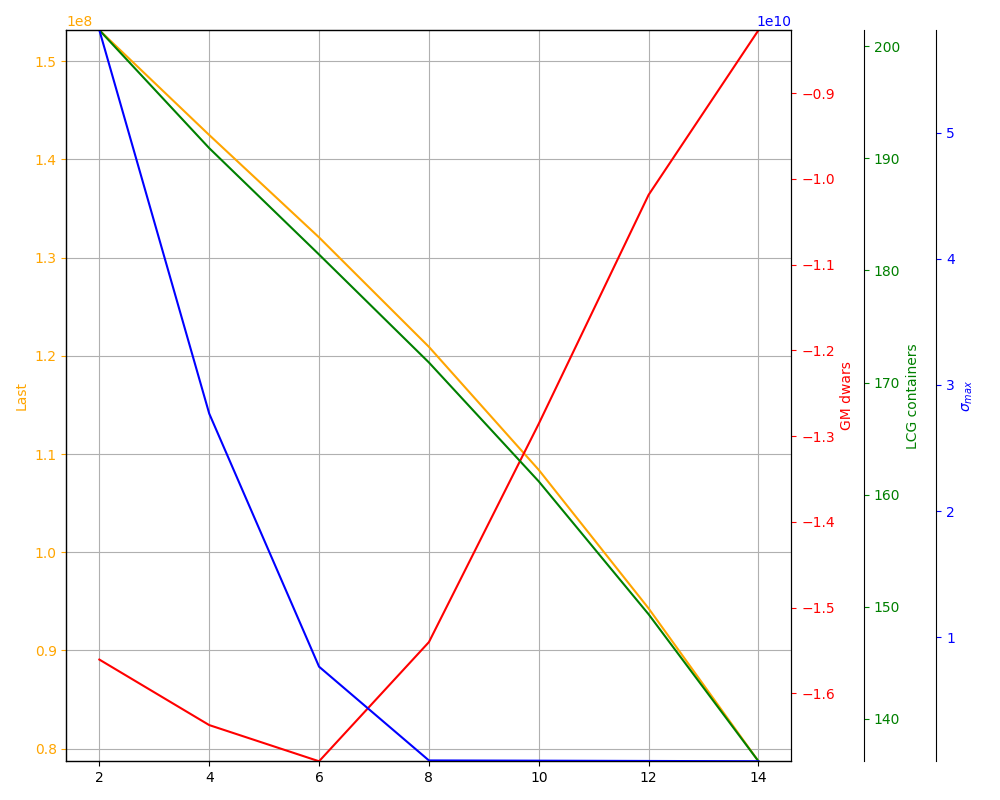
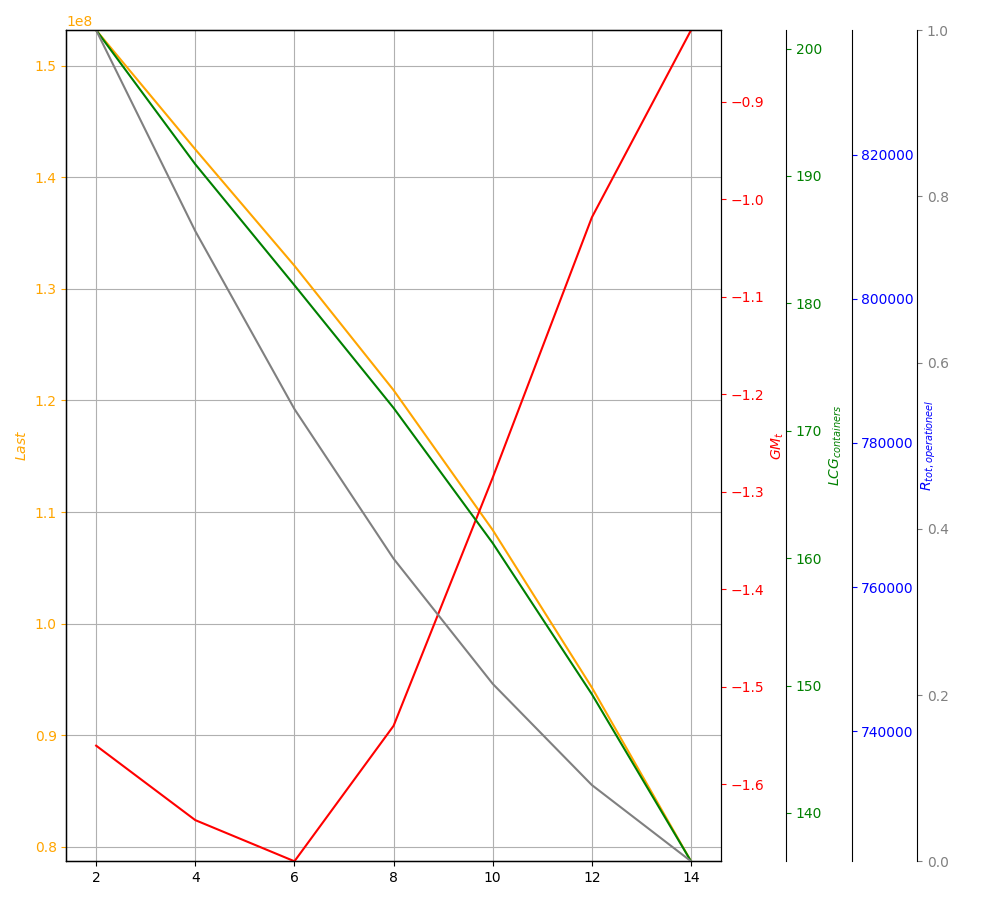
biem

diff --git a/Trendlijnen.py b/Trendlijnen.py
@@ -275,143 +275,11 @@ def beladen(df):
     #Msl=rho_water*g*displacement*GM_l*theta
     BB1=It_y/displacement*np.tan(theta)
 
-    return [F_last,GM_t,arm_c,max(sigma)]
+    return [F_last,GM_t,arm_c,max(sigma),df.iloc[150,3]]
     
-def varend(df_varend):   
-    rho_staal = 7.85E3
-    E_staal=210E9
-    rho_water = 1.025E3
-    g = 9.81
-    nul = np.zeros(1)
-    Loa= df_varend.iloc[0,1] +df_varend.iloc[67,0]
-    eind = np.array([Loa])
-    onderwater= df_varend.iloc[42:64,0]
-    COB=df_varend.iloc[20,1]
-    COV=df_varend.iloc[21,1]
-    x=np.arange(0,Loa,0.05)
-
-
-    #containers
-    Cl=6.06   #container lengte
-    Cb=2.44  #container breedte
-    Ch=2.59   #container hoogte
-    Cw=30E3  #container weight
-
-    #aantal containers
-    n=234
-    #aantal rijen in de hoogte
-    atiers=1
-    #aantal containers in breedte
-    arij=13
-    #aantal containers in lengte
-    abay= n/arij
-
-
-    #opwaartsekracht verdeelde belasting
-    p=np.zeros(len(x))
-
-    p = -df_varend.iloc[42:64,1]*rho_water*g
-    p = np.append(p,nul)
-    p = np.append(nul,p)
-    x_p = df_varend.iloc[42:64,0]
-    x_p = np.append(0,x_p)
-    x_p = np.append(x_p,max(onderwater))
-    p_func = interpolate.interp1d(x_p,p)
-
-    #gewicht verdeelde belasting
-    G = df_varend.iloc[101:123,2]*rho_staal*g*tp_factor
-    #G=np.append(G,nul)
-    x_G = df_varend.iloc[101:123,0]
-    #x_G=np.append(x_G,eind)
-    G_func = interpolate.interp1d(x_G,G)
-
-    #traagheidsmoment over de lengte
-    I = df_varend.iloc[101:123,6]*tp_factor
-    #I=np.append(I,nul)
-    x_I = df_varend.iloc[101:123,0]
-    #x_I=np.append(x_I,eind)
-    I_func = interpolate.interp1d(x_I,I)
-
-
-    G = G_func(x)
-    I= I_func(x)
-    p= np.zeros(len(x))
-    # for loop zodat nadat het onderwater stopt p altijd 0
-    for i in range(len(x)):
-        if x[i] < min(onderwater):
-            p[i] = 0
-        elif x[i] > max(onderwater):
-            p[i]=0
-        else:
-            p[i]=p_func(x[i])
-
-    G_punt=integrate.simpson(G_func,x)
-    P_punt=integrate.simpson(p_func,x)
-
-
-    #som krachten 6 staat voor de 6 meter diepgang
-    Fc=Cw*n*g
-
-    Ftank = -1*(G_punt + P_punt +Fc)
-    xtank=df_varend.iloc[33,1]
-    volumetank=Ftank/rho_water/g
-
-    volumetankmax=df_varend.iloc[32,1]/df_varend.iloc[35,1]*100
-
-
-    Fillheight=volumetank/volumetankmax
-
-    #som momenten
-    LCG_c= -1*(P_punt*COB +G_punt*COV +Ftank*xtank)/Fc
-
-    displacement = df_varend.iloc[18,1]
-    gewichtschip=displacement*rho_water
-    H=df_varend.iloc[2,1]
-
-
-
-
-    #GM dwarsrichting
-    It_x = df_varend.iloc[27,1]
-    displacement = df_varend.iloc[18,1]
-
-    KB = df_varend.iloc[20,3]
-    KG = df_varend.iloc[21,3]
-
-    #berekening displacement nieuw nadat containers erop zijn
-    gewichtschip=displacement*rho_water
-    displacement1=(gewichtschip+Cw*n)/rho_water
-    BM_t = It_x/displacement1
-    KGcont_v=H+(Ch*atiers/2)
-    KGtank_v=df_varend.iloc[33,3]
-
-    KG_nieuw= (KG*G_punt/g+KGcont_v*n*Cw+KGtank_v*volumetank*rho_water)/(G_punt/g+n*Cw+volumetank*rho_water)
-
-    GM_t_v = KB + BM_t - KG_nieuw 
-
-
-
-    #LCG
-    LCF = df_varend.iloc[26,1]
-    LCGNieuw=(LCF*G_punt/g+LCG_c*n*Cw+xtank*volumetank*rho_water)/(G_punt/g+n*Cw+volumetank*rho_water)
-    #GM langsrichting
-    It_y = df_varend.iloc[27,2]
-    BM_l = It_y/displacement
-    GM_l = KB +BM_l-KG
-
-    #KG1=(KG*gewichtschip+F_tank1/g*tankx+F_cont*VCG_c/g)/(F_cont/g+gewichtschip+F_tank1)
-
-
-
-    V_s = df_varend.iloc[152:165,1]
-    R_tot = df_varend.iloc[152:165,3]
-
-    R_tot_max = df_varend.iloc[150,3]
-    return [GM_t_v, Fillheight*100]
-
 
 def trendplotinelkaar(filepath,title):
-    datalabel = [r"Last", r"GM dwars", r"LCG containers",r"$\sigma_{max}$"]
+    datalabel = [r"$Last$", r"$GM_{t}$", r"$LCG_{containers}$",r"$\sigma_{max}$",r"$R_{tot,operationeel}$"]
     wb = load_workbook(filepath, read_only=True, keep_links=False)
     variable = wb.sheetnames
     data = np.zeros(len(datalabel))
@@ -422,43 +290,48 @@ def trendplotinelkaar(filepath,title):
     data = data[1:,]
 
     variable = [float(numeric_string) for numeric_string in variable]
-    figure, ax = plt.subplots(figsize=(10,8))
+    figure, ax = plt.subplots(figsize=(10,9))
 #    figure.subplots_adjust(right=0.75)
 
 
     twin1 = ax.twinx()
     twin2 = ax.twinx()
     twin3 = ax.twinx()
+    twin4 = ax.twinx()
 
     # Offset the right spine of twin2.  The ticks and label have already been
     # placed on the right by twinx above.
     twin2.spines.right.set_position(("axes", 1.1))
     twin3.spines.right.set_position(("axes", 1.2))
+    twin4.spines.right.set_position(("axes", 1.3))
 
 
     p1, = ax.plot(variable,  data[:,0], label=datalabel[0],c="orange")
     p2, = twin1.plot(variable, data[:,1], label=datalabel[1],c="r")
     p3, = twin2.plot(variable,  data[:,2],label=datalabel[2],c="g")
     p4, = twin3.plot(variable,  data[:,3], label=datalabel[3],c="b")
+    p5, = twin3.plot(variable,  data[:,4], label=datalabel[4],c="grey")
     ax.set(ylabel=datalabel[0],ylim=(min(data[:,0]),max(data[:,0])))
     twin1.set(ylabel=datalabel[1],ylim=(min(data[:,1]),max(data[:,1])))
     twin2.set(ylabel=datalabel[2],ylim=(min(data[:,2]),max(data[:,2])))
     twin3.set(ylabel=datalabel[3],ylim=(min(data[:,3]),max(data[:,3])))
+    twin3.set(ylabel=datalabel[4],ylim=(min(data[:,4]),max(data[:,4])))
+
     ax.yaxis.label.set_color(p1.get_color())
     twin1.yaxis.label.set_color(p2.get_color())
     twin2.yaxis.label.set_color(p3.get_color())
     twin3.yaxis.label.set_color(p4.get_color())
+    twin4.yaxis.label.set_color(p5.get_color())
     ax.tick_params(axis='y', colors=p1.get_color())
     twin1.tick_params(axis='y', colors=p2.get_color())
     twin2.tick_params(axis='y', colors=p3.get_color())
     twin3.tick_params(axis='y', colors=p4.get_color())
+    twin4.tick_params(axis='y', colors=p5.get_color())
 
 #    ax.legend(handles=[p1, p2, p3,p4])
     ax.grid()
     plt.tight_layout()
     plt.savefig(r".\variatie onderzoek\ "+title+".png")
-    plt.show()
-
 
 def trendplot(filepath,title):
     datalabel = [r"Last", r"GM dwars", r"LCG containers",r"$\sigma_{max}$"]
@@ -490,3 +363,9 @@ def trendplot(filepath,title):
 
 
 trendplotinelkaar(r".\variatie onderzoek\bilgeradius verandering.xlsx","bilge")
+trendplotinelkaar(r".\variatie onderzoek\breedte verandering.xlsx","breedte")
+#trendplotinelkaar(r".\variatie onderzoek\diepgangs verandering.xlsx","diepgang")
+trendplotinelkaar(r".\variatie onderzoek\holte verandering.xlsx","holte")
+trendplotinelkaar(r".\variatie onderzoek\intrede hoek verandering.xlsx","intrede hoek")
+trendplotinelkaar(r".\variatie onderzoek\lengte verandering.xlsx","midship")
+trendplotinelkaar(r".\variatie onderzoek\breedte verandering.xlsx","breedte")
